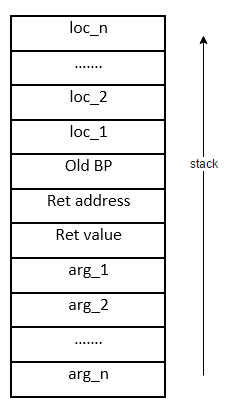
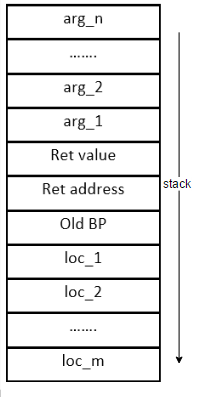
fix

Changed region(s): [[0.0302, 0.0, 0.9648, 0.9673], [0.0, 0.9975, 0.0302, 1.0]]

diff --git a/roadmap.html b/roadmap.html
@@ -1012,26 +1012,29 @@
                             A tree node for a function call contains a pointer to a list of expressions, one expression for each argument. <b>The compiler must type check each argument and match it with the type of the corresponding formal parameter of the called function.</b>
                         </p>
                         <p>
-                            To get an overall picture of what is going on, you must read the documentation on <a href="data-structures.html" target="_blank"> compile time data structures</a> at this juncture. <b>Ignore type table entries for now</b> as we permit only integer/string variables in the present stage.   
+                            To get an overall picture of what is going on, you may read the documentation on <a href="data-structures.html" target="_blank"> compile time data structures</a> at this juncture. <b>Ignore type table entries for now</b> as we permit only integer/string variables in the present stage.   
                         </p>
                           The expression tree structure given <a href="data_structures/abstract-syntax-tree.html" target="_blank">HERE</a> can be used (again, ignore type table pointer) The details of implementation are left to you. 
                         </p>
                         <p>
                             With this information, the task of completing type checking and building expression tree for a function is straightforward.  
                             <div class="syntax">
-                                <b>Task 2</b>:  Construct AST for each function after checking type and scope rules (semantic analysis).  Right now, we are concerned just with type checking and not code generation.  Note that a variable appearing in a function must first be searched for in the local symbol table of the function and then in the global symbol table if not found in the local symbol table.   Note that local declaration overrides global declaration.   The compiler must report an error if the types, names and number of arguments in each function declaration must matching with the function definition.  
+                                <b>Task 2</b>:  Construct AST for each function after checking type and scope rules (semantic analysis).  Right now, we are concerned just with type and scope analysis and not code generation. Note that a variable appearing in a function must first be searched for in the local symbol table of the function and then in the global symbol table, if not found in the local symbol table. Note that local declaration overrides global declaration. The compiler must report an error if the types, names and number of arguments in each function declaration are not matching with the function definition.  
                             </div>
                         </p>
                         <p>
-                            The dynamics of a function call can be understood easily be dividing the process into the following three stages.  
+                            Now we turn to the code generation step.
+                        </p>
+                        <p>
+                            The dynamics of a function call can be understood easily by dividing the process into the following three stages.  
                             <ul>
                                 <li id="otis">
-                                    Step 1.  <b>Code executed in the calling function (caller)  before the transfer of control</b> to the called function (callee):
+                                    Step 1.  <b>Code executed in the calling function (caller)  before the transfer of control</b> to the called function (<b>callee</b>):
                                     <ul>
                                         <li id="otis">a)  The caller must <b>save the registers</b> in use so that even if the callee changes the values later,  the original values can be recovered after return from the callee.</li>
-                                        <li id="otis">b)  The caller must <b>calculate the arguments to the callee and store it</b> somewhere in a way that the <b>callee can access those values</b>.</li>
-                                        <li id="otis"> c)  The caller must indicate create some space for the callee to place the return value at the end of the call.</li>
-                                        <li id="otis"> d)  Make the control transfer to the binding address of the callee.</li>
+                                        <li id="otis">b)  The caller must <b>evaluate the arguments to the callee and store it</b> somewhere in a way that the <b>callee can access those values</b>.</li>
+                                        <li id="otis"> c)  The caller must create some space for the callee to place the return value at the end of the call.</li>
+                                        <li id="otis"> d)  The caller must transfer control transfer to the binding address of the callee.</li>
                                     </ul>
                                 </li>
                                 <li id="otis">
@@ -1056,12 +1059,12 @@
                             The machine code for actions in Step 1 and Step 3 must be generated when the compiler encounters a function call in the caller's code.   The compiler generates code for Step 2 while generating code for the callee function.
                         </p>
                         <p>
-                            To implement the above plan, we need to create storage space whenever a function call is encountered.   We will be focusing on generating code with labels are used.  Translation of labels to actual addresses can be easily done at the end as was done in Stage 4 following the <a href="label-translation.html" target="_blank">Label Translation Documentation</a>.  <br>
-                            <br>
-                            
+                            To implement the above plan, we need to create storage space whenever a function call is encountered.   We will be focusing on generating code containing labels.  Translation of labels to actual addresses can be easily done at the end as was done in Stage 4 following the <a href="label-translation.html" target="_blank">Label Translation Documentation</a>.
+                        </p>
+                        <p>  
                             <b>Implementation Strategy</b>. <br>
                             <br>
-                            The fundamental strategy for space allocation is to create an <b>activation record</b> for the callee in the <b>stack</b> when a function call is encountered.  <b>The compiler must generate code for creating the activation record at run-time when the call is encountered</b>. Since the storage requirements for arguments, local variables and the return value of a function are known at compile time, the compiler knows exactly how much space must be allocated for each function.   We propose following general organization for activation records:  <br>
+                            The fundamental strategy for space allocation is to create an <b>activation record</b> for the callee in the <b>stack</b> when a function call is encountered.  <b>The compiler must generate code for creating the activation record at run-time when the call is encountered</b>. Since the storage requirements for arguments, local variables and the return value of a function are known at compile time, the compiler knows exactly how much space must be allocated for each function. We propose following general organization for activation records:  <br>
 
                             <ul>
                                 <li id="otis">
@@ -1071,10 +1074,10 @@
                                     2.  <b>Relative to the base, the address of each argument, each local variable, the address where the return value is stored etc are fixed by the compiler statically</b> (at compile time).
                                 </li>
                                 <li id="otis">
-                                    3.  Initially, the activation record for the Main function is created in the stack.  BP is initialized to the base of this activation record and the Main function starts execution.
+                                    3.  Initially, the activation record for the main function is created in the stack. BP is initialized to the base of this activation record and the main function starts execution.
                                 </li>
                                 <li id="otis">
-                                    4.  <b>If function A calls function B, a new activation record is created in the stack for function B above the activation record of function B</b>.  The BP is made to point to the base of activation record of B.  Upon return from B, the activation record of B is popped off the stack and BP is set back to the activation record of B.
+                                    4.  <b>If function A calls function B, a new activation record is created in the stack for function B above the activation record of function A</b>. The BP is made to point to the base of activation record of B.  Upon return from B, the activation record of B is popped off the stack and BP is set back to the activation record of A.
                                 </li>
                                 <li id="otis">
                                     5.  If function A calls function B, the address of the instruction in A to resume execution (<b>return address</b> – value of current-IP +2 in XSM machine- why?) upon return from B must be saved.  Similarly, the <b>base pointer of the caller</b> (BP value) of A <b>must be saved in the stack</b> before BP is changed to point to the base of B.  Both the return address and BP values will be stored in pre-defined locations of the activation record of B.
@@ -1084,8 +1087,9 @@
                                 </li>
                             </ul>
 
-
-                            A thorough reading of this <a href="run_data_structures/run-time-stack.html">page</a> is absolutely essential to proceed any further. Suppose  a function has n arguments (arg_1, arg_2,...,arg_n) and m local variables (loc_1, loc_2, ..., loc_m), its activation record in the stack may look as the following
+                        </p>
+                        <p>
+                            A thorough reading of this <a href="run_data_structures/run-time-stack.html" target="_blank">page</a> is <b>absolutely essential</b> to proceed any further. Suppose  a function has n arguments (arg_1, arg_2,...,arg_n) and m local variables (loc_1, loc_2, ..., loc_m), its activation record in the stack may look as the following
                         </p>
                         <p>
                             <img src="img/stack.png">  

diff --git a/run_data_structures/run-time-stack.html b/run_data_structures/run-time-stack.html
@@ -59,7 +59,10 @@
                         <p>
                             The <b>calling convension</b> fixes in what order arguments to a function must be pushed by the caller to the called function, the place in the activation record where the return value is expected to be written by the callee etc.  The structure of the activation record explained below will clarify the calling convension.
                         </p>
-                        <img src="../img/data_structure_34.png" alt="" style="padding-left:30%; margin-bottom:2em"/>
+                       <p>
+                            The stack is assumed to grow downwards.<br>
+                            <img src="../img/data_structure_34.png" alt="" style="padding-left:30%; margin-bottom:2em"/>
+                       </p> 
                         <p>
                             When a function is invoked, a part of the activation record is set up by the caller and the rest is set up after invocation of the function.  Similarly, when a function returns, the callee and the caller are responsible for removing the parts they have set up.
                         </p>
